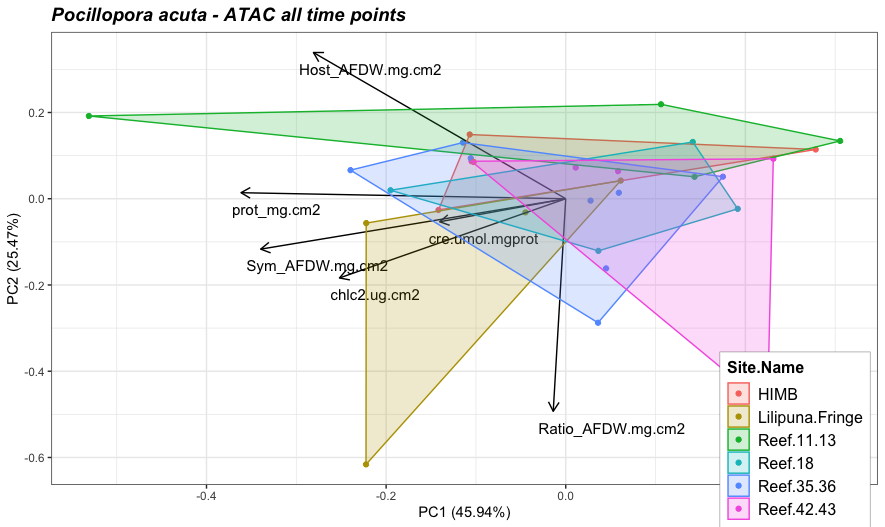
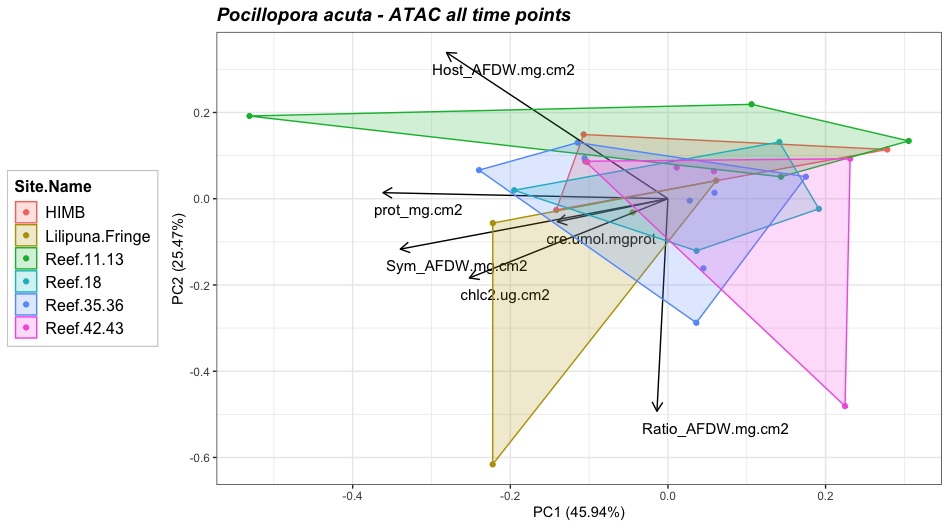
updated pact reef

diff --git a/CSP-Results-Update.md b/CSP-Results-Update.md
@@ -167,7 +167,7 @@ prcomp run on just Mcap ATAC data or just Pacuta ATAC data and grouped by Site.N
 
 ![Mcap-reef](https://github.com/hputnam/Coral_Stress_Phenome/blob/main/Final-figures/PCA-by-reef.png?raw=true)
 
-![]
+![Pact](https://github.com/hputnam/Coral_Stress_Phenome/blob/main/Final-figures/PCA-by-reef-Pacuta.png?raw=true)
 
 
 ### ITS2 Sequencing
